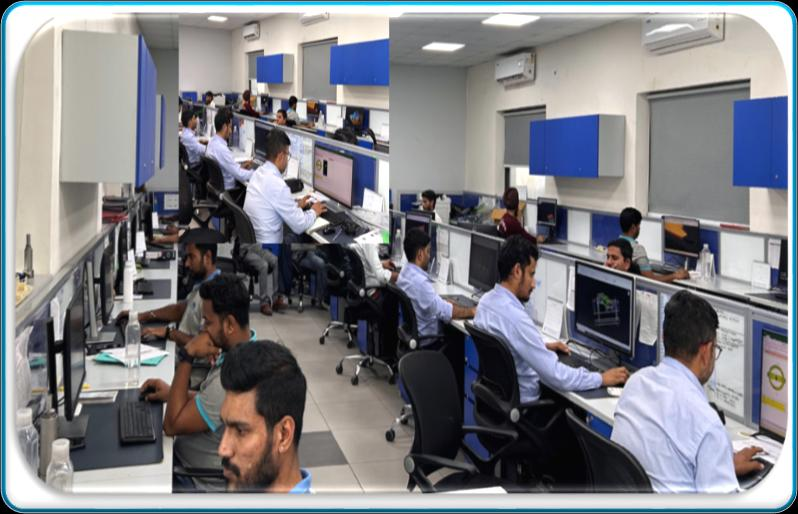
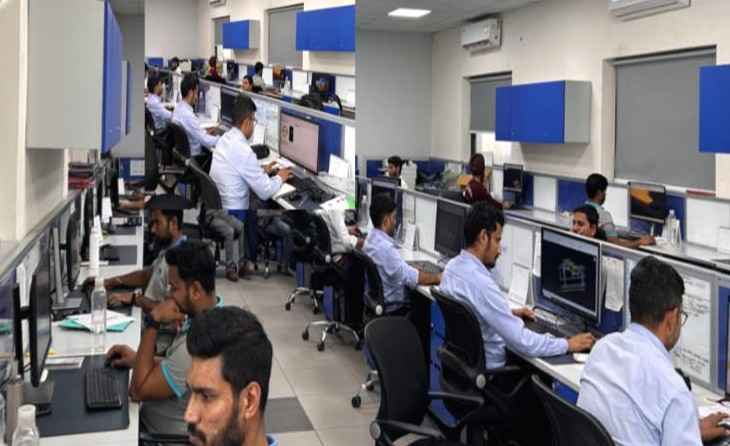
Feat : added updates to the hero section and about section

diff --git a/app/page.tsx b/app/page.tsx
@@ -25,21 +25,21 @@ export default function Home() {
   return (
     <>
       <section
-        className="relative flex items-center overflow-hidden bg-navy-900 pt-29.5 pb-17 text-white after:pointer-events-none after:absolute after:inset-0 after:bg-[radial-gradient(circle_at_82%_20%,rgba(23,179,217,.25),transparent_45%)] sm:pt-32.5 sm:pb-19 md:min-h-160 md:py-0"
+        className="relative flex items-center overflow-hidden bg-navy-900 pt-16 pb-20 text-white after:pointer-events-none after:absolute after:inset-0 after:bg-[radial-gradient(circle_at_82%_20%,rgba(23,179,217,.25),transparent_45%)] sm:pt-20 sm:pb-24 md:min-h-160 md:py-0"
       >
         <HeroCarousel images={HERO_IMAGES} />
-        <div className={`relative z-2 w-full`}>
+        <div className="relative z-2 w-full px-6">
           <div className="mx-auto max-w-4xl text-center">
-            <div className="mb-1.5 text-[1.15rem] font-medium text-cyan-400">Passionate Performance!</div>
-            <h1 className="text-white">Precision Tooling for Decorative Automotive Parts</h1>
-            <p className="mx-auto max-w-2xl text-lg text-[#d7e5f2]">
+            <div className="mb-1.5 text-base font-medium text-cyan-400 sm:text-[1.15rem]">Passionate Performance!</div>
+            <h1 className="text-balance text-white">Precision Tooling for Decorative Automotive Parts</h1>
+            <p className="mx-auto max-w-2xl text-base text-pretty text-[#d7e5f2] sm:text-lg">
               An affiliate of Polyplastics (India), with 30 years of engineering excellence in design,
               tooling and production of high-gloss, IMD, 2K &amp; Kromex decorative components for
               leading global OEMs.
             </p>
-            <div className="mt-7.5 flex flex-wrap justify-center gap-3.5 max-md:flex-col max-md:items-stretch">
+            <div className="mt-7.5 flex flex-wrap justify-center gap-3.5 max-md:mx-auto max-md:max-w-xs max-md:flex-col max-md:items-stretch">
               <Link href="/what-we-do" className={`${btn("primary")} max-md:whitespace-normal`}>
-                Explore Our Capabilities
+                Explore Capabilities
               </Link>
               <Link href="/contact" className={`${btn("outline")} max-md:whitespace-normal`}>
                 Get In Touch
@@ -76,7 +76,9 @@ export default function Home() {
             solutions for decorative automotive parts, from ID decals and badges to facia, cockpit
             and wheel decoratives.
           </p>
-          <Link href="/about" className={btn("dark")}>Read Our Full Story</Link>
+          <Link href="/about" className={`${btn("dark")} max-md:mx-auto max-md:flex max-md:w-fit`}>
+            Read Our Full Story
+          </Link>
         </div>
         <div className="reveal">
           {/* eslint-disable-next-line @next/next/no-img-element */}

diff --git a/components/Stats.tsx b/components/Stats.tsx
@@ -48,12 +48,13 @@ export default function Stats({ stats }: { stats: Stat[] }) {
 
   return (
     <div
-      className="reveal relative z-5 -mt-6 grid grid-cols-2 gap-2.5 xs:gap-3.5 sm:-mt-7.5 md:-mt-14 md:gap-5 lg:grid-cols-4"
+      // One strip: the 1px gap shows the grey background through as divider lines
+      className="reveal relative z-5 -mt-6 grid grid-cols-2 gap-px overflow-hidden rounded-card border-b-3 border-cyan-500 bg-grey-200 shadow-md sm:-mt-7.5 md:-mt-14 lg:grid-cols-4"
       ref={ref}
     >
       {stats.map((s) => (
         <div
-          className="rounded-card border-b-3 border-cyan-500 bg-white px-2.5 py-4.5 text-center shadow-md xs:px-3.5 xs:py-5.5 md:px-5 md:py-7"
+          className="bg-white px-2.5 py-4.5 text-center xs:px-3.5 xs:py-5.5 md:px-5 md:py-7"
           key={s.label}
         >
           <span className="block text-[1.4rem] font-bold text-navy-800 xs:text-[1.7rem] md:text-[2.1rem]">
